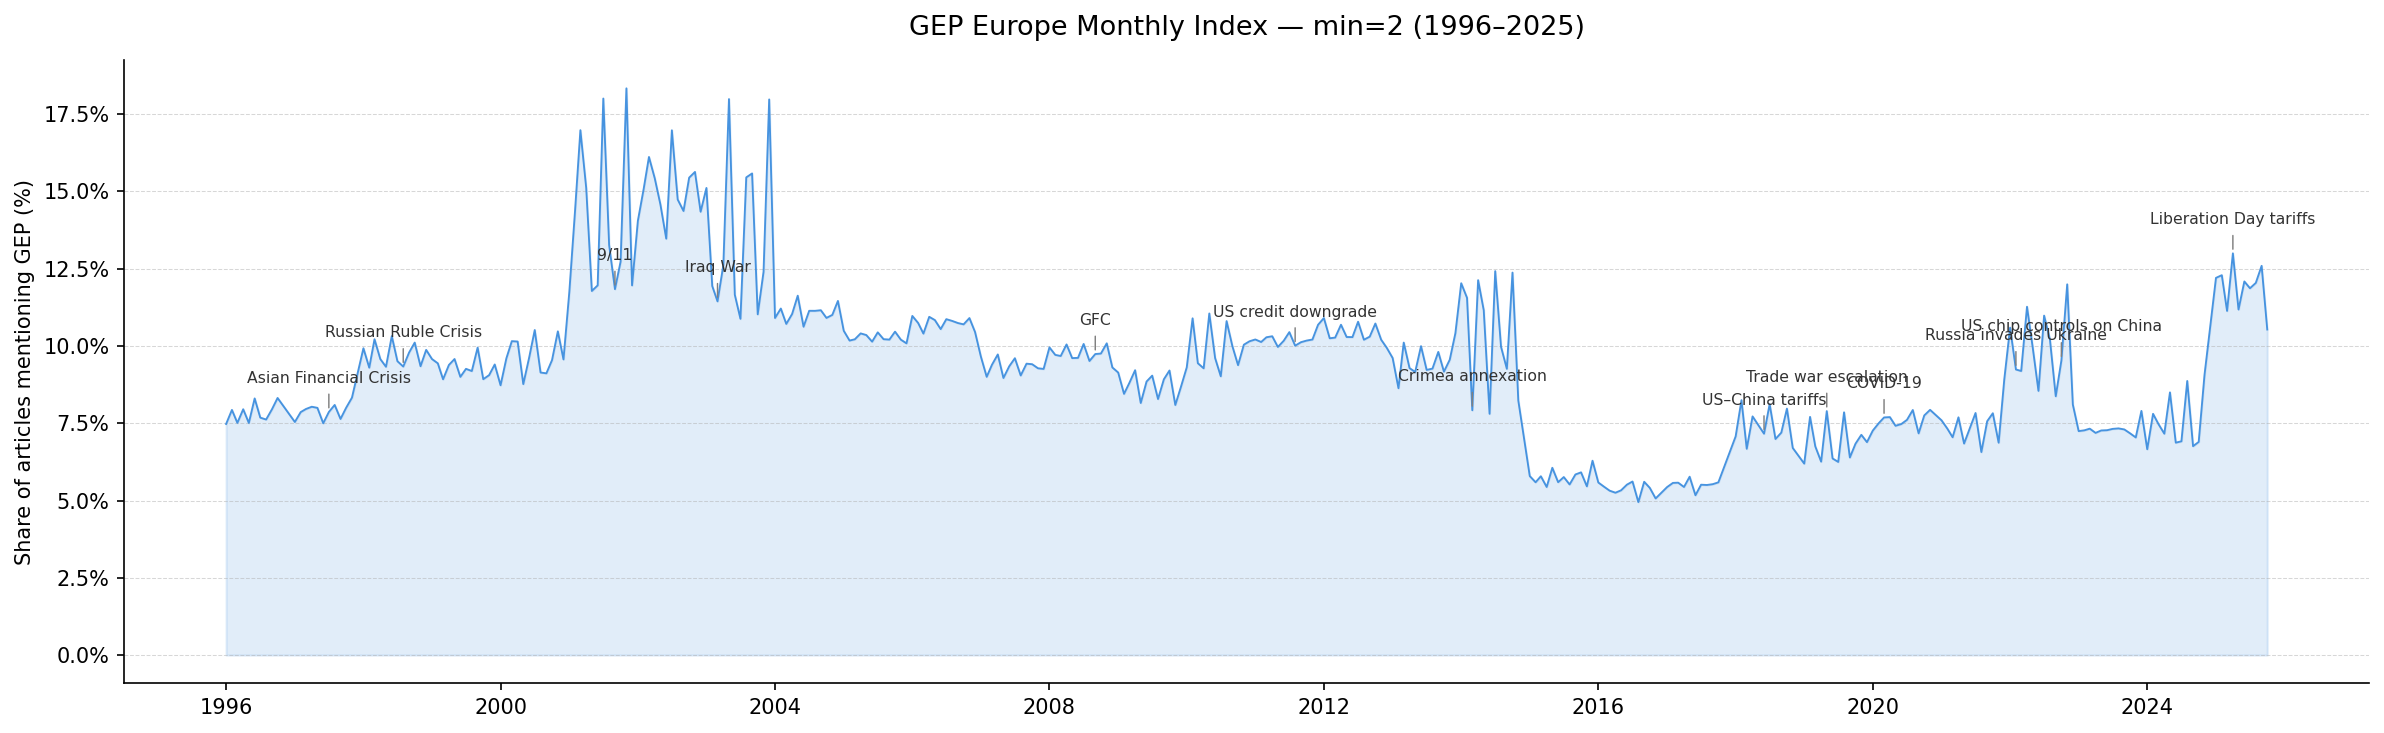
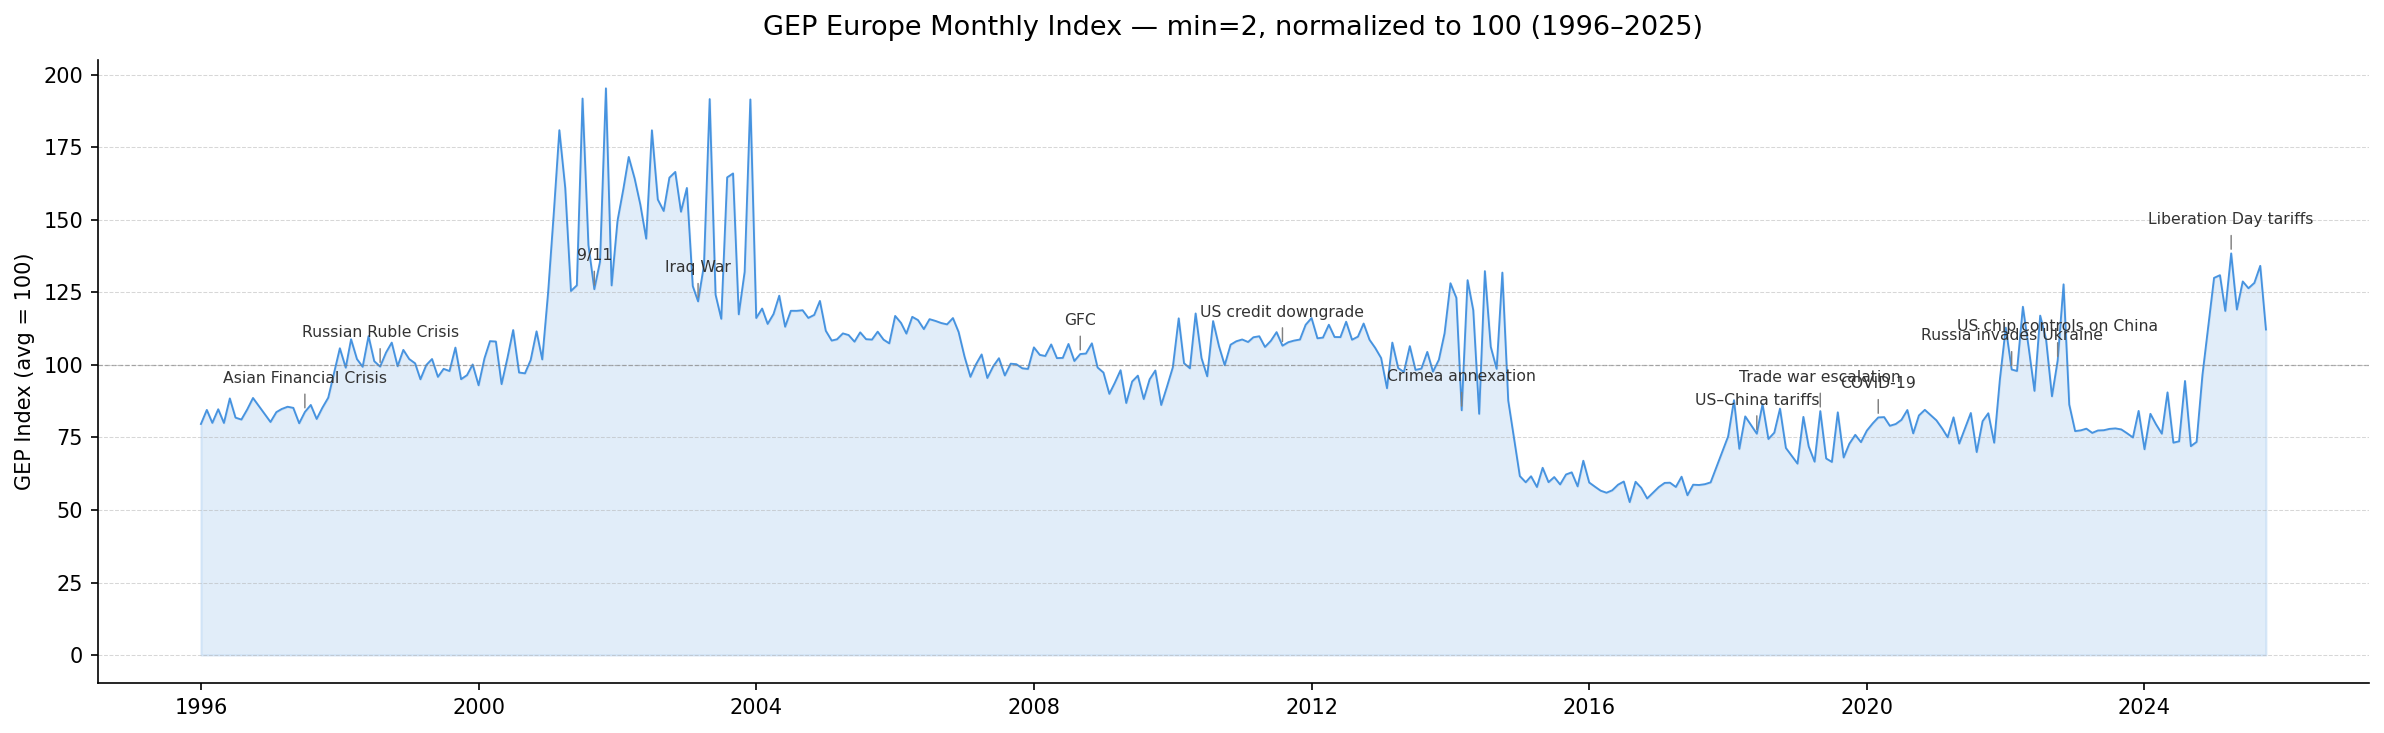
Normalize GEP Europe index plots to 100 (avg = 100)

diff --git a/INDEX/index_new_final_europe/plot_europe_index.py b/INDEX/index_new_final_europe/plot_europe_index.py
@@ -22,11 +22,13 @@ BASE = os.path.dirname(os.path.abspath(__file__))
 # ── Load data ──────────────────────────────────────────────────────────────────
 monthly = pd.read_csv(os.path.join(BASE, "GEP_Monthly_Updated.csv"))
 monthly["month"] = pd.to_datetime(monthly["month"])
-monthly["gep_pct"] = monthly["GEP_monthly"] * 100   # express as %
-
 daily = pd.read_csv(os.path.join(BASE, "GEP_Daily_Updated.csv"), parse_dates=["date"])
 daily_obs = daily[daily["n_articles"] > 0].copy()
-daily_obs["gep_pct"] = daily_obs["GEP_daily"] * 100  # express as %
+
+# ── Normalize to 100 over full sample (avg daily = 100) ───────────────────────
+daily_mean = daily_obs["GEP_daily"].mean()
+daily_obs["gep_norm"] = daily_obs["GEP_daily"] / daily_mean * 100
+monthly["gep_norm"] = monthly["GEP_monthly"] / daily_mean * 100  # same scale
 
 
 # ══════════════════════════════════════════════════════════════════════════════
@@ -51,16 +53,17 @@ PEAKS = {
 
 fig, ax = plt.subplots(figsize=(16, 5))
 
-ax.plot(monthly["month"], monthly["gep_pct"],
+ax.plot(monthly["month"], monthly["gep_norm"],
         color="#378ADD", linewidth=0.9, alpha=0.9)
-ax.fill_between(monthly["month"], monthly["gep_pct"],
+ax.fill_between(monthly["month"], monthly["gep_norm"],
                 alpha=0.15, color="#378ADD")
+ax.axhline(100, color="gray", linewidth=0.6, linestyle="--", alpha=0.6)
 
 for month_str, label in PEAKS.items():
     row = monthly[monthly["month"].dt.strftime("%Y-%m") == month_str]
     if not row.empty:
         x = row["month"].values[0]
-        y = row["gep_pct"].values[0]
+        y = row["gep_norm"].values[0]
         ax.annotate(
             label,
             xy=(x, y),
@@ -72,10 +75,10 @@ for month_str, label in PEAKS.items():
             color="#333333",
         )
 
-ax.set_title("GEP Europe Monthly Index — min=2 (1996–2025)", fontsize=13, pad=12)
+ax.set_title("GEP Europe Monthly Index — min=2, normalized to 100 (1996–2025)", fontsize=13, pad=12)
 ax.set_xlabel("")
-ax.set_ylabel("Share of articles mentioning GEP (%)", fontsize=10)
-ax.yaxis.set_major_formatter(ticker.FormatStrFormatter("%.1f%%"))
+ax.set_ylabel("GEP Index (avg = 100)", fontsize=10)
+ax.yaxis.set_major_formatter(ticker.FormatStrFormatter("%.0f"))
 ax.grid(axis="y", linestyle="--", linewidth=0.5, alpha=0.5)
 ax.spines["top"].set_visible(False)
 ax.spines["right"].set_visible(False)
@@ -138,8 +141,8 @@ def find_nearby_peak(date_str, window_days=10):
     sub = daily_obs[(daily_obs["date"] >= lo) & (daily_obs["date"] <= hi)]
     if sub.empty:
         return dt, 0.0
-    idx = sub["gep_pct"].idxmax()
-    return sub.loc[idx, "date"], sub.loc[idx, "gep_pct"]
+    idx = sub["gep_norm"].idxmax()
+    return sub.loc[idx, "date"], sub.loc[idx, "gep_norm"]
 
 
 def spread_label_dates(event_peaks, min_gap_days=38):
@@ -167,19 +170,20 @@ raw_peaks = [
 ]
 spread = spread_label_dates(raw_peaks, min_gap_days=38)
 
-X_DATA_MAX = daily_obs["gep_pct"].quantile(0.999)
+X_DATA_MAX = daily_obs["gep_norm"].quantile(0.999)
 X_LABEL    = X_DATA_MAX * 1.25
 X_MAX      = X_DATA_MAX * 3.8
 
 fig, ax = plt.subplots(figsize=(16, 28))
 
-ax.scatter(daily_obs["gep_pct"], daily_obs["date"],
+ax.scatter(daily_obs["gep_norm"], daily_obs["date"],
            s=28, color="#27AE60", alpha=0.30, linewidths=0, zorder=2,
-           label="Daily GEP share")
+           label="Daily GEP (norm. 100)")
 
-ax.plot(monthly["gep_pct"], monthly["month"],
+ax.plot(monthly["gep_norm"], monthly["month"],
         color="#152F5F", linewidth=1.6, alpha=0.95, zorder=3,
-        label="Monthly GEP share")
+        label="Monthly GEP (norm. 100)")
+ax.axvline(100, color="gray", linewidth=0.6, linestyle="--", alpha=0.6)
 
 for peak_date, peak_score, label, label_date in spread:
     ax.scatter(peak_score, peak_date,
@@ -205,11 +209,11 @@ ax.yaxis.set_major_formatter(mdates.DateFormatter("%Y"))
 ax.tick_params(axis="y", labelsize=9)
 
 ax.set_xlim(0, X_MAX)
-ax.xaxis.set_major_formatter(ticker.FuncFormatter(lambda x, _: f"{x:.0f}%"))
-ax.set_xlabel("Share of articles mentioning GEP (%)", fontsize=11)
+ax.xaxis.set_major_formatter(ticker.FuncFormatter(lambda x, _: f"{x:.0f}"))
+ax.set_xlabel("GEP Index (avg = 100)", fontsize=11)
 ax.tick_params(axis="x", labelsize=9)
 
-ax.set_title("GEP Europe Daily Index — min=2 (1996–2025)", fontsize=13, pad=10)
+ax.set_title("GEP Europe Daily Index — min=2, normalized to 100 (1996–2025)", fontsize=13, pad=10)
 ax.grid(axis="x", linestyle="--", linewidth=0.4, alpha=0.35)
 ax.spines["top"].set_visible(False)
 ax.spines["right"].set_visible(False)